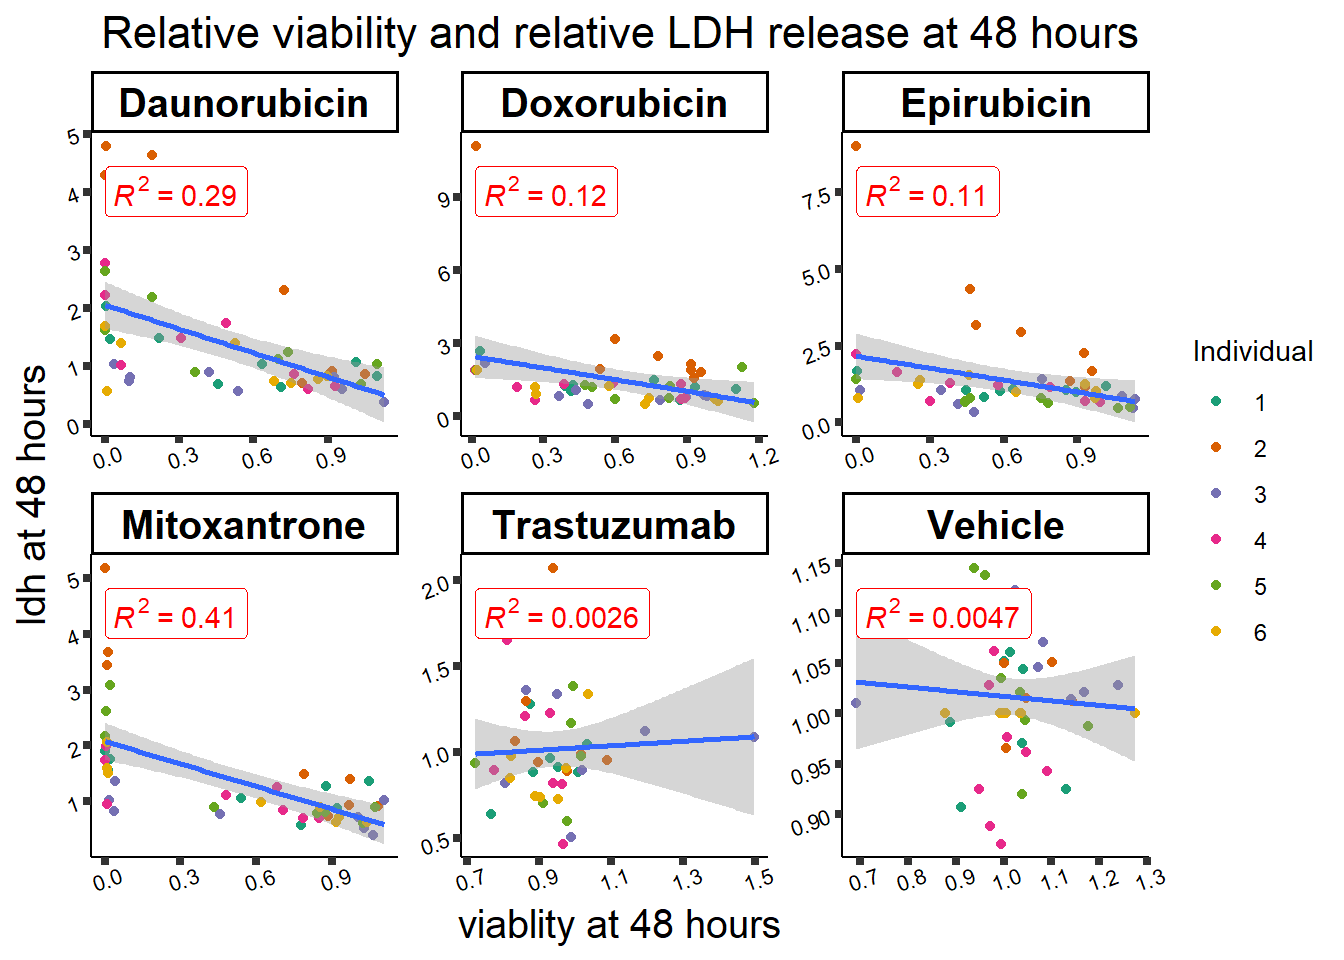
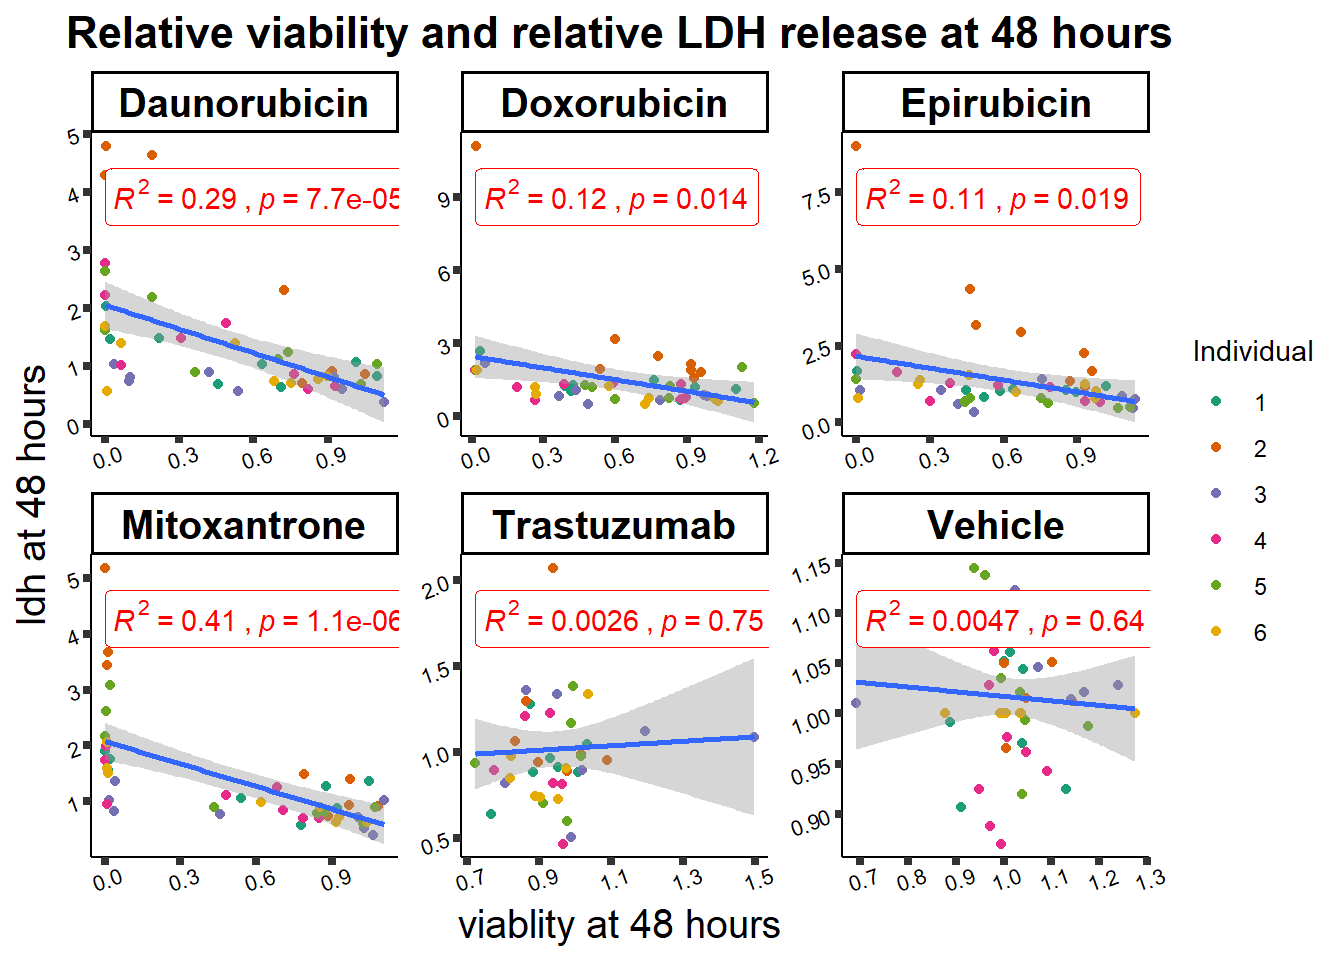
Build site.

diff --git a/docs/LDH_analysis.html b/docs/LDH_analysis.html
@@ -521,15 +521,15 @@ project makes it easier to run your code on other machines.</p>
 <div class="panel panel-default">
 <div class="panel-heading">
 <p class="panel-title">
-<a data-toggle="collapse" data-parent="#workflowr-checks" href="#strongRepositoryversionstrongahrefhttpsgithubcomreneeisnowhereCardiotoxicitytree30686c3a75ce7f398a4513238d643a7ef5002a80targetblank30686c3a">
+<a data-toggle="collapse" data-parent="#workflowr-checks" href="#strongRepositoryversionstrongahrefhttpsgithubcomreneeisnowhereCardiotoxicitytree2c5e87d12701be0ab7f1f4651a881f13c572fbb5targetblank2c5e87da">
 <span class="glyphicon glyphicon-ok text-success"
 aria-hidden="true"></span> <strong>Repository version:</strong>
-<a href="https://github.com/reneeisnowhere/Cardiotoxicity/tree/30686c3a75ce7f398a4513238d643a7ef5002a80" target="_blank">30686c3</a>
+<a href="https://github.com/reneeisnowhere/Cardiotoxicity/tree/2c5e87d12701be0ab7f1f4651a881f13c572fbb5" target="_blank">2c5e87d</a>
 </a>
 </p>
 </div>
 <div
[2 lines of base64/hex data omitted]
 class="panel-collapse collapse">
 <div class="panel-body">
 <p>
@@ -539,7 +539,7 @@ reproducibility.
 </p>
 <p>
 The results in this page were generated with repository version
-<a href="https://github.com/reneeisnowhere/Cardiotoxicity/tree/30686c3a75ce7f398a4513238d643a7ef5002a80" target="_blank">30686c3</a>.
+<a href="https://github.com/reneeisnowhere/Cardiotoxicity/tree/2c5e87d12701be0ab7f1f4651a881f13c572fbb5" target="_blank">2c5e87d</a>.
 See the <em>Past versions</em> tab to see a history of the changes made
 to the R Markdown and HTML files.
 </p>
@@ -718,6 +718,40 @@ Message
 </tr>
 </thead>
 <tbody>
+<tr>
+<td>
+Rmd
+</td>
+<td>
+<a href="https://github.com/reneeisnowhere/Cardiotoxicity/blob/2c5e87d12701be0ab7f1f4651a881f13c572fbb5/analysis/LDH_analysis.Rmd" target="_blank">2c5e87d</a>
+</td>
+<td>
+reneeisnowhere
+</td>
+<td>
+2023-05-17
+</td>
+<td>
+adding p value to correlation
+</td>
+</tr>
+<tr>
+<td>
+html
+</td>
+<td>
+<a href="https://rawcdn.githack.com/reneeisnowhere/Cardiotoxicity/870c13f7756093bc33d750d92535815be1678e22/docs/LDH_analysis.html" target="_blank">870c13f</a>
+</td>
+<td>
+reneeisnowhere
+</td>
+<td>
+2023-05-17
+</td>
+<td>
+Build site.
+</td>
+</tr>
 <tr>
 <td>
 Rmd
